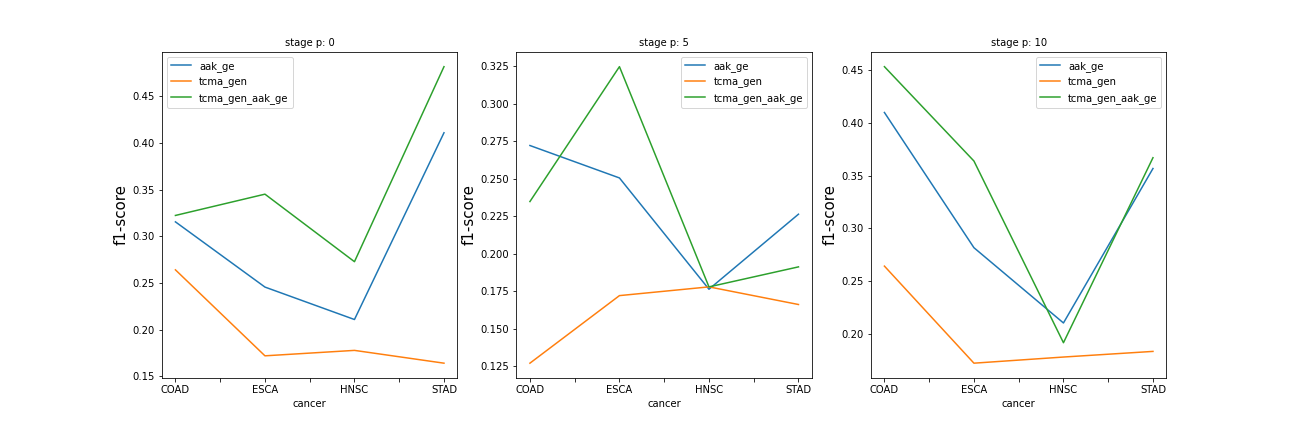
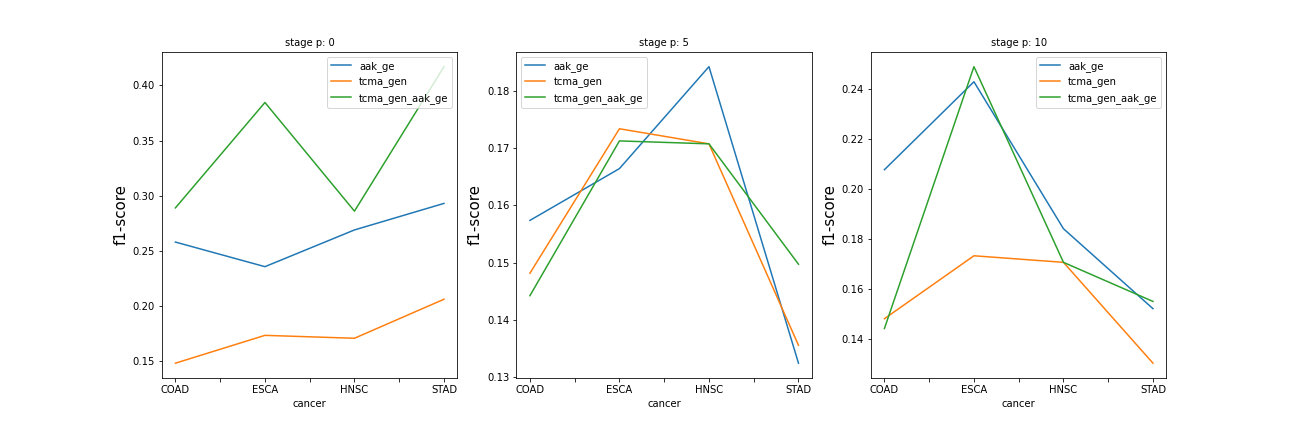
Add small tweaks

diff --git a/predictor.py b/predictor.py
@@ -9,8 +9,6 @@ import processor as pr
 import pandas as pd
 
 def runCrossValidation(x, y, splits=2, model="SVC"):
-    x_train, x_test, y_train, y_test = train_test_split(x, y, test_size=0.33, random_state=42)
-
     if model == "SVC":
         model = SVC(random_state=0)
     elif model == "MLGR":
@@ -67,13 +65,17 @@ def runExperiments(data, files, target="tumor", ps=[0, 5, 10]):
                 least_class = val_counts.iloc[0]
 
                 if least_class < 2 or len(val_counts) < 2:
-                    print(f"Skipping {files[i]} {c} {p} {len(best_x)} due to {least_class} least class")
+                    print(f"Skipping {files[i]} {c} {p} {len(x)} due to {least_class} least class")
                     continue
                 
-                best_x = pr.selectFeatures(x, y, p)
-                x = best_x
+                x_train, x_test, y_train, y_test = train_test_split(x, y, test_size=0.8, random_state=42)
+                best_indices = pr.selectFeatures(x_train, y_train, p)
+                # print("best", best_indices)
+                # print("xtest", x_test)
+                x = x_test.iloc[:, best_indices].copy()
+                y = y_test
+                print(f"Running for {files[i]} {c} {p} | found p using: {len(x_train)} tr/ev using: {len(x_test)}")
 
-                print(f"Running for {files[i]} {c} {p} {len(best_x)}")
                 cur_report = runCrossValidation(x, y, model=model)
 
                 cur_report["cancer"] = c

diff --git a/processor.py b/processor.py
@@ -40,7 +40,8 @@ def getTSNE(x):
 
 def selectFeatures(x, y, k=10):
     if k == 0:
-        return x.copy()
+        # return x.copy()
+        return list(range(len(x.columns)))
 
     selector = SelectKBest(chi2, k=k)
     selector.fit(x, y)
@@ -50,7 +51,8 @@ def selectFeatures(x, y, k=10):
 
     # kbest = np.asarray(x.columns)[selector.get_support()]
     best_indices =  selector.get_support()
-    return x.iloc[:, best_indices].copy()
+    return best_indices
+    # return x.iloc[:, best_indices].copy()
 
 def plotScatter(X, Y, titles=[], filename="", diagnostic="tumor"):
     rows = math.ceil(len(X) / 3)
